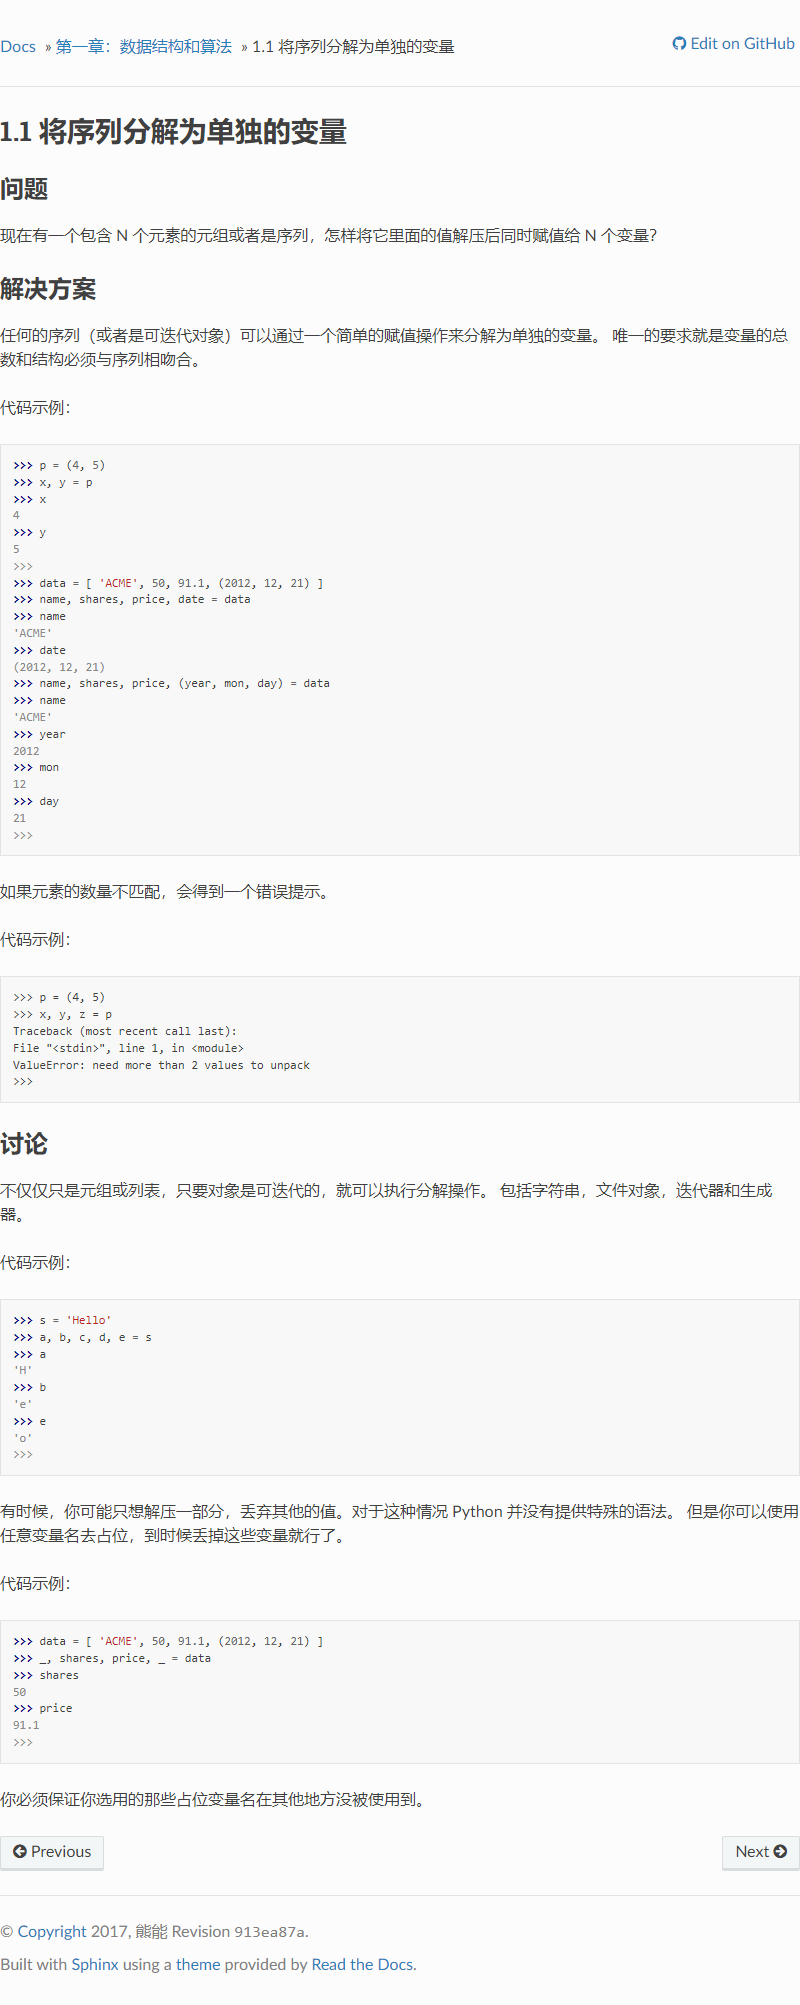
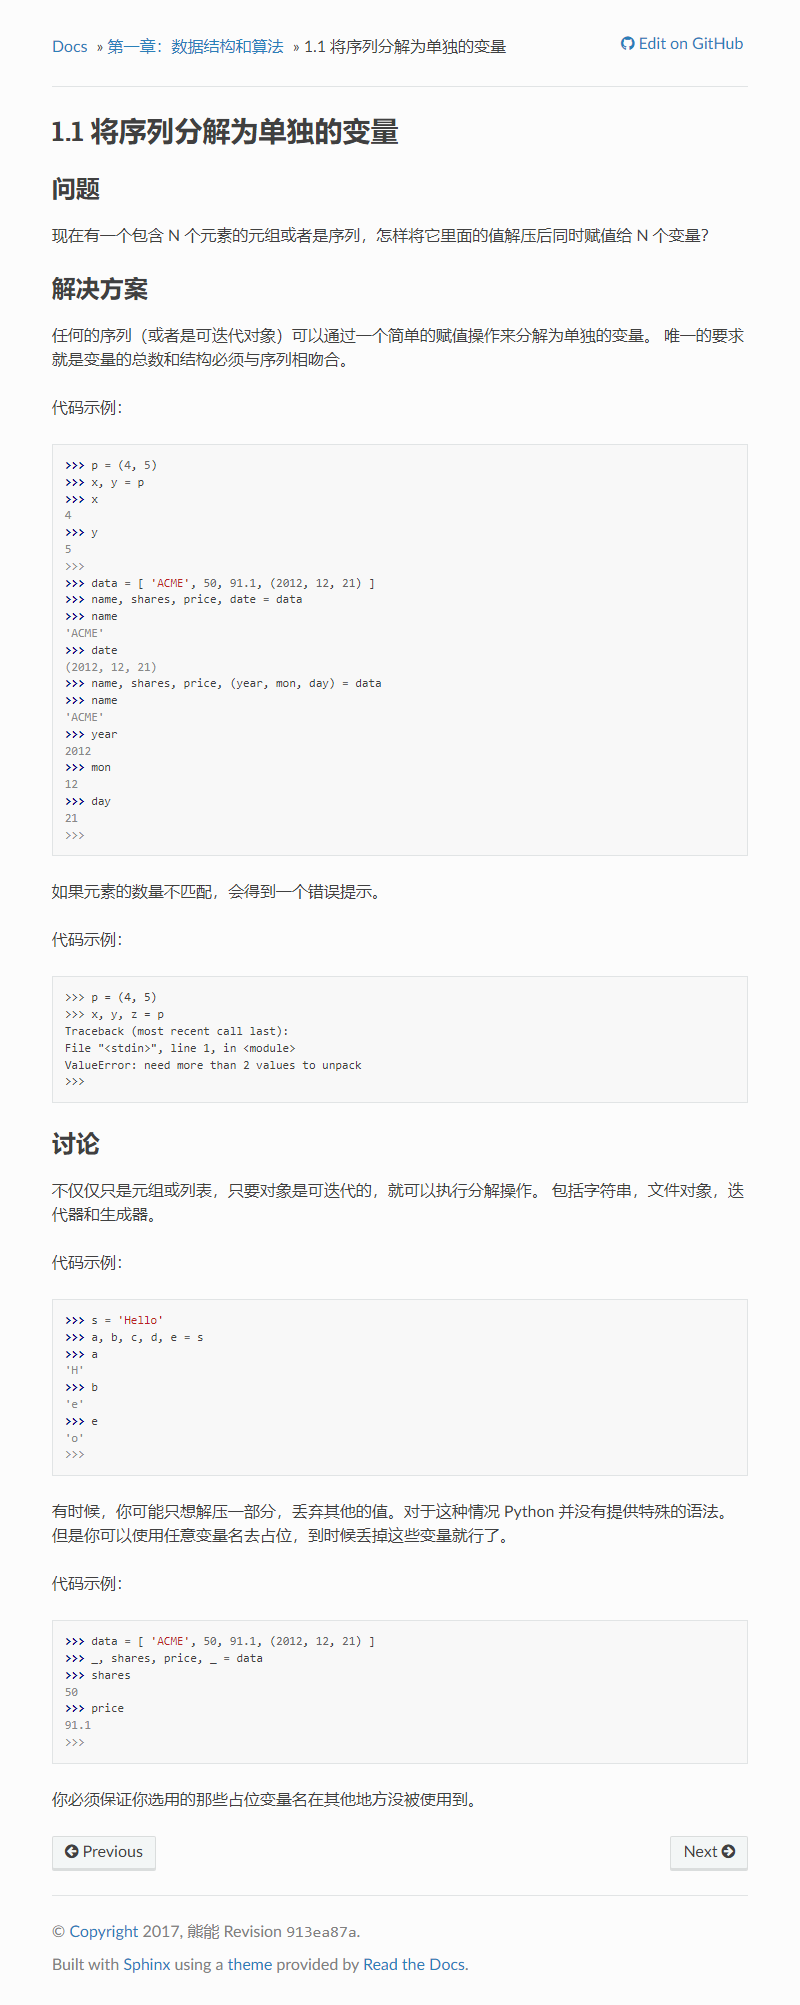
u

diff --git a/js_string/remove_el.js b/js_string/remove_el.js
@@ -1,0 +1,8 @@
+const removeEl = (selector) => {
+  let elList = document.querySelectorAll(selector);
+  if (elList && elList.length > 0) {
+    elList.forEach((el) => el.remove());
+  }
+};
+removeEl(replace_str_selector);
+return "remove el finished";

diff --git a/scrapy_test.py b/scrapy_test.py
@@ -35,6 +35,12 @@ def add_style(driver,selector,**kw):
         res = driver.execute_script(js_string)
         print(res)
 
+def remove_el(driver,selector):
+    with open('./js_string/remove_el.js','r') as f:
+        js_string = f.read()
+        js_string = js_string.replace('replace_str_selector','"%s"' % selector)
+        res = driver.execute_script(js_string)
+        print(res)
 
 def screenMenu():
     try:
@@ -113,6 +119,7 @@ def saveFile(folder,file_name,content):
 # finally: 
 #     pass
 
+ 
 def screenPage(page,selector):
     browser.get(page['url'])
     # 创建等待对象
@@ -125,6 +132,8 @@ def screenPage(page,selector):
     # 隐式等待
     # browser.implicitly_wait(3)
     titleEl = browser.find_elements(By.CSS_SELECTOR,selector)[0]
+    # 移除页脚
+    remove_el(browser,'.wy-nav-content footer')
     add_style(browser,selector,style_name="paddingTop",style_value='30px')
     add_style(browser,selector,style_name="paddingBottom",style_value='30px')
     loc = titleEl.location
